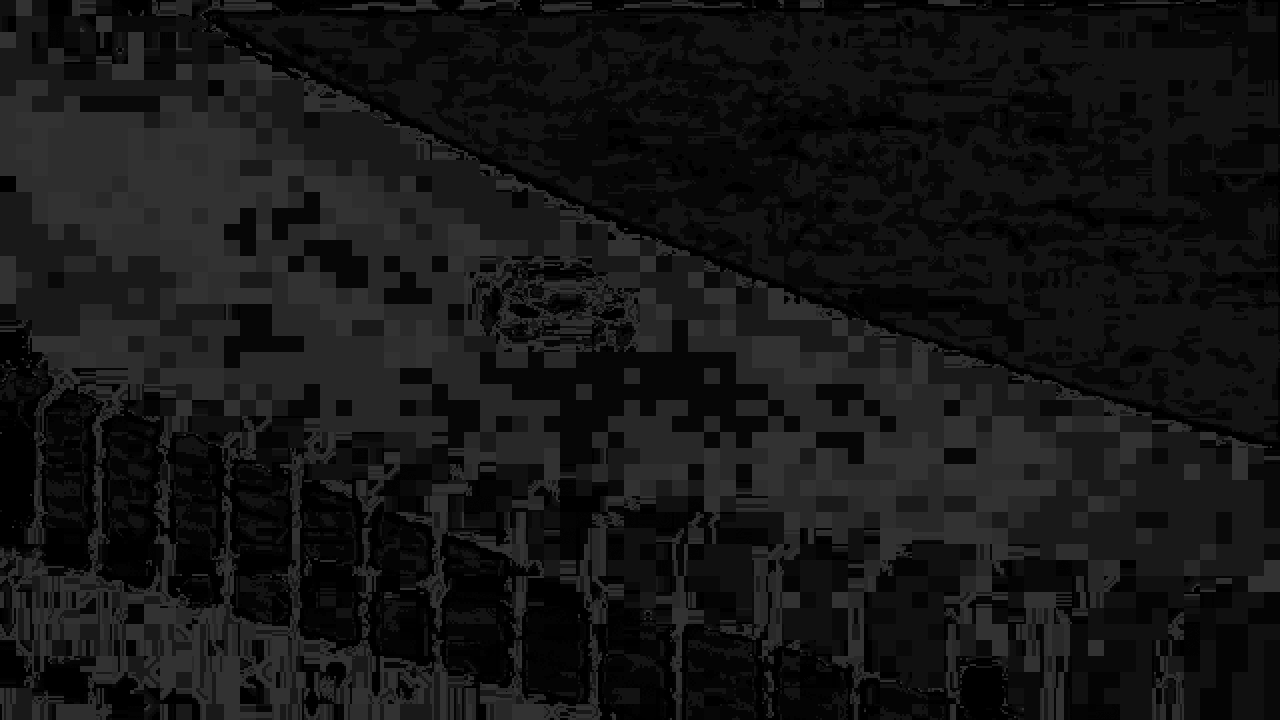
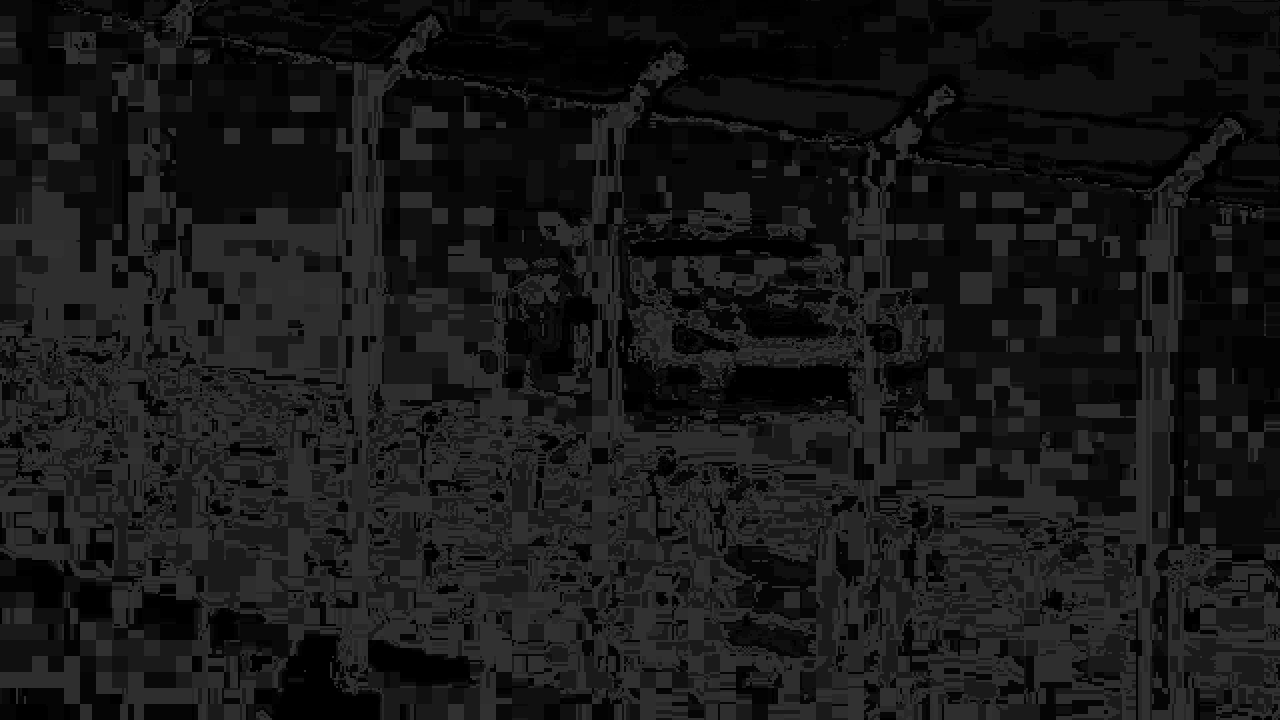
finished

diff --git a/ub3/aufg2.py b/ub3/aufg2.py
@@ -18,7 +18,7 @@ def hsvhist(img):
     for x in range(img.size[0]):
         for y in range(img.size[1]):
             (H,S,V) = rgb2hsv(i[x,y])
-            H = int(H*100)
+            H = int(round(H,3)*100)
             if H in d:
                 d[H] += 1
             else:
@@ -52,7 +52,7 @@ def getImgProb(hist, img):
 		line = []
 		for y in range(img.size[1]):
 			(H,S,V) = rgb2hsv(img.load()[x,y])
-			H = int(H*100)
+			H = int(round(H,3)*100)
 			pixelProp = 0.0
 			if H in hist:
 				pixelProp = float(hist[H]) / float(totalSum)
@@ -76,7 +76,7 @@ def imgProb2Gray(prob):
 	return img
 
 file = "racecar.avi"
-framenumber = 1
+framenumber = 100 
 frame = getFrame(file,framenumber )
 img = cv2pil(frame)
 

diff --git a/ub3/zettel3.md b/ub3/zettel3.md
@@ -15,5 +15,5 @@ __Teilbild:__
  ![](subhist.png)
 
 ### 2. Aufgabe - CAMSHIFT
-
+Frame 100
  ![](probimg.png)
